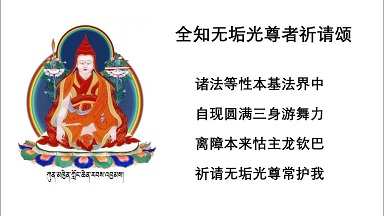
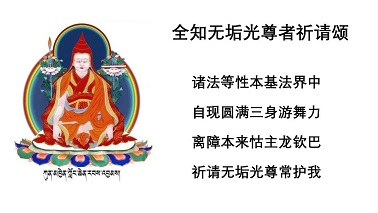
Update Post “2025-04-07-2021届-2025年4月12日共修-5-加行的修法-皈依1”

diff --git a/content/posts/2025-04-07-2021届-2025年4月12日共修-5-加行的修法-皈依1.md b/content/posts/2025-04-07-2021届-2025年4月12日共修-5-加行的修法-皈依1.md
@@ -11,15 +11,6 @@ attachments:
   - /f/up/开显解脱道略释4-思考题.pptx
   - /f/up/莲师皈依境观想图片.jpg
 ---
-<!--StartFragment-->
-
-诸法等性本基法界中\
-自现圆满三身游舞力\
-离障本来怙主龙钦巴\
-祈请无垢光尊常护我
-
-<!--EndFragment-->
-
 
 
 ![](/f/up/maxresdefault.jpg)
